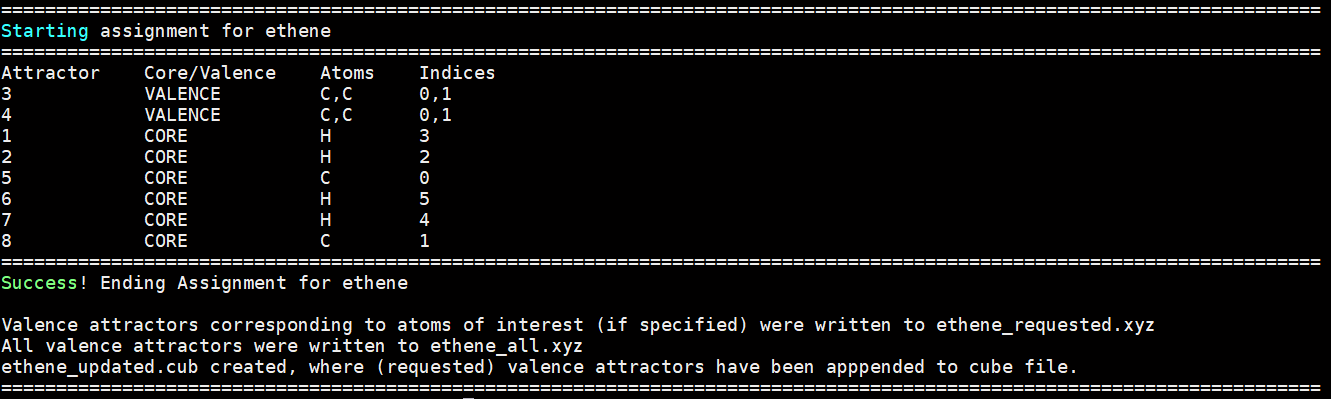
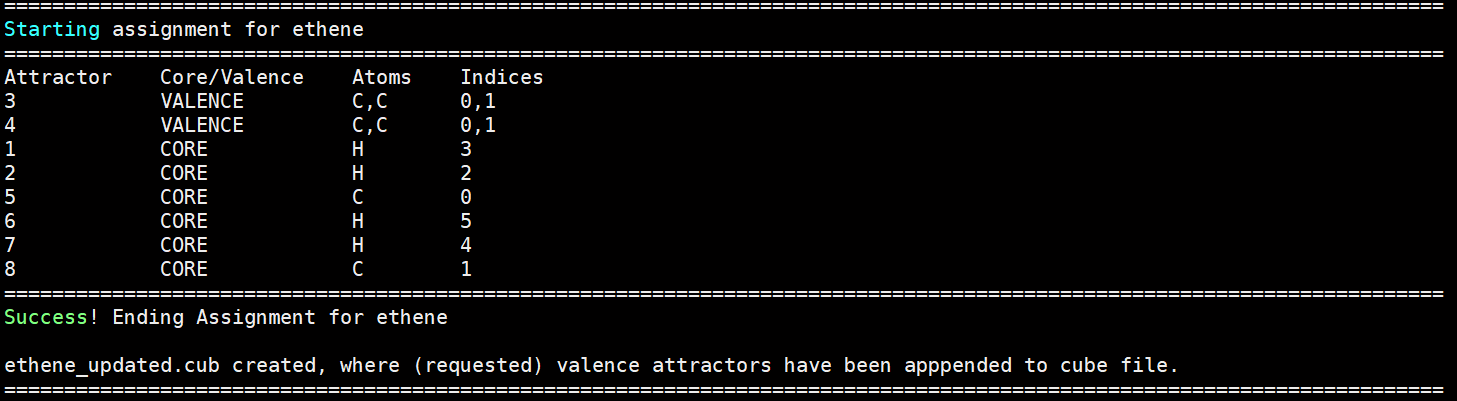
Update README with new functionality

diff --git a/README.md b/README.md
@@ -16,17 +16,16 @@ This is a simple python program, that is designed to speed up the workflow of ge
 
 ## Example Usage
 
-1. We start in a directory containing the following files: ethene.xyz, ethene.pdb, ethene.cub
-    - ethene.xyz : This is just the molecular geometry in the .xyz file format
-    - ethene.pdb : This is the raw attractors file produced by Multiwfn, in the .pdb file format
+1. We start in a directory containing the following files: ethene.cub and ethene.pdb
     - ethene.cub : This is the cube file containing the data to visualise the ELF isosurface, produced by Multiwfn
+    - ethene.pdb : This is the raw attractors file produced by Multiwfn, in the .pdb file format
 
 2. We create a .py script named ethene.py containing the following two lines:
     ```
     from autoelf import *
-    auto_elf_assign("ethene.xyz", "ethene.pdb", interest_atoms=[0,1], final_cube=True)
+    auto_elf_assign("ethene.xyz", "ethene.pdb", interest_atoms=[0,1])
     ``` 
-    We have specified the two required positional arguments, xyzfile and pdbfile. We have also specified that we are interested in any VALENCE attractors that are assigned to atoms 0 and 1 (the two carbon atoms). Finally, we have specified that we would like to add any VALENCE attractors of interest to the provided cube file, so that we may visualise everything (geometry, ELF isosurface and attractors) together easily.
+    We have specified the two required positional arguments, cubefile and pdbfile. We have also specified that we are interested in any VALENCE attractors that are assigned to atoms 0 and 1 (the two carbon atoms).
 
 3. Execute command: python3 ethene.py
 
@@ -34,6 +33,4 @@ This is a simple python program, that is designed to speed up the workflow of ge
     ![ethene_example](ethene_example.PNG) 
 
 5. What files are produced ?
-    - ethene_all.xyz --> Contains all CORE and VALENCE attractors appended as dummy atoms to molecular geometry.
-    - ethene_requested.xyz --> Contains all VALENCE attractors corresponding to atoms of interest appended as dummy atoms to molecular geometry.
-    - ethene_updated.cub --> Produced if final_cube was set to True. Contains ELF isosurface, molecular geometry and VALENCE attractors (all or of interest). This can be visualised in programs such as Chemcraft, Avogadro and VMD.
+    - ethene_updated.cub --> Contains ELF isosurface, molecular geometry and VALENCE attractors (all or of interest). This can be visualised in programs such as Chemcraft, Avogadro and VMD.
